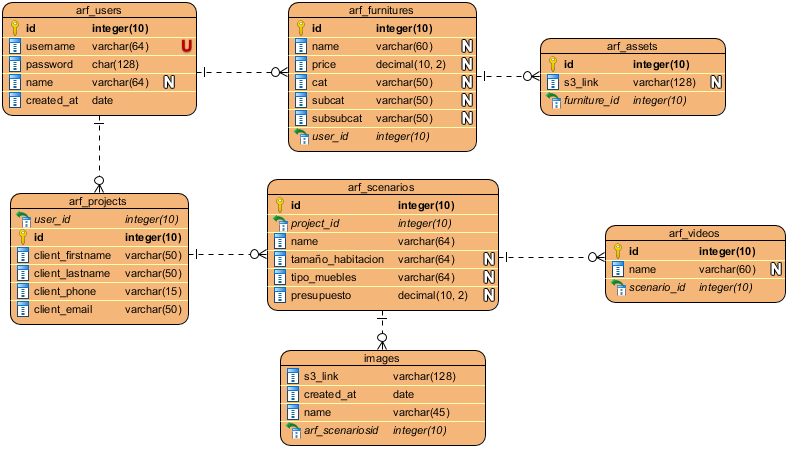
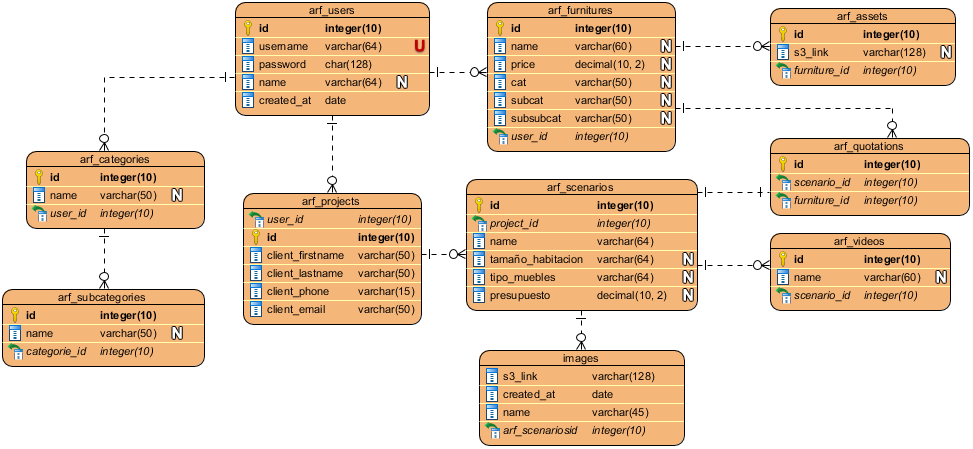
Correcciones en ER

diff --git a/TT2018-A002/desarrollo/secciones/inicializacion.tex b/TT2018-A002/desarrollo/secciones/inicializacion.tex
@@ -58,10 +58,22 @@ Además de la aplicación móvil, existe una plataforma web que se encuentra com
 	\label{fig:arqbackend}
 \end{figure}
 \par
-Por otro lado se requerirá una base de datos que pueda almacenar los usuarios registrados y los escenarios que estos vayan creando. Para el tipo y cantidad de información que se requiere almacenar, una base de datos relacional cumple a ésta necesidad. En la figura  3.16 describe el diseño de la base de datos que se va a usar en ARF, misma que se encuentra en el clúster Amazon RDS mostrado en la figura 4.26.
+Por otro lado se requerirá una base de datos que pueda almacenar los usuarios, proyectos, escenarios, categorías y subcategorías que se vayan generando. Para el tipo y cantidad de información que se requiere almacenar, una base de datos relacional en tercera forma normal cumple a ésta necesidad. En las figuras  3.16, 3.17 y 3.18 se muestra el proceso de normalización la base de datos que se va a usar en ARF, misma que se encuentra en Amazon RDS mostrado en la figura 4.26.
 \begin{figure}[H]
 	\centering
-	\includegraphics[width=16cm,height=9.5cm]{imagenes/desarrollo/arquitectura/ERD.png}
-	\caption{Modelo Entidad-Relación usado para la base de datos de ARF.}
-	\label{fig:erd}
+	\includegraphics[width=16cm,height=8cm]{imagenes/desarrollo/arquitectura/ERD.png}
+	\caption{Primera forma normal de la base de datos de ARF.}
+	\label{fig:erd1}
+\end{figure}
+\begin{figure}[H]
+\centering
+\includegraphics[width=16cm,height=8cm]{imagenes/desarrollo/arquitectura/ERD.png}
+\caption{Segunda forma normal de la base de datos de ARF.}
+\label{fig:erd2}
+\end{figure}
+\begin{figure}[H]
+\centering
+\includegraphics[width=16cm,height=8cm]{imagenes/desarrollo/arquitectura/ERD.png}
+\caption{Tercera forma normal de la base de datos de ARF.}
+\label{fig:erd}
 \end{figure}

diff --git a/TT2018-A002/desarrollo/secciones/exploracion.tex b/TT2018-A002/desarrollo/secciones/exploracion.tex
@@ -37,6 +37,7 @@ Tras las pruebas de contexto realizadas con ARCore y Vuforia, se tomó la decisi
 	\item Vuforia en ambientes con luz muy baja es incapaz de funcionar.
 	\item Con Vuforia se requieren imprimir tantos marcadores físicos como objetos se deseen visualizar. Es decir, si se quieren mostrar 30 muebles en escena, es necesario imprimir y posicionar los 30 marcadores en el entorno físico.
 \end{itemize}
+\newpage
 
 \subsubsection{Establecimiento de interesados}
 \textbf{Desarrolladores} \par

diff --git a/TT2018-A002/analisis/secciones/diagramasSecuencia.tex b/TT2018-A002/analisis/secciones/diagramasSecuencia.tex
@@ -53,7 +53,7 @@ Aquí se presentan cinco escenarios: creación de proyecto, actualización de pr
 
 \begin{figure}[h!]
 	\centering
-	\includegraphics[width=14cm,height=8cm]{imagenes/analisis/ds/CreateProject.jpg}
+	\includegraphics[width=14cm,height=6cm]{imagenes/analisis/ds/CreateProject.jpg}
 	\caption{DS4. Gestión de proyectos.}
 	\label{fig:dsreccuenta}
 \end{figure}

diff --git a/TT2018-A002/Anexos/Mockup.tex b/TT2018-A002/Anexos/Mockup.tex
@@ -105,3 +105,6 @@
 		\label{fig:presupuesto} 
 	\end{minipage}\hfill
 \end{figure}
+
+
+\section{Solicitudes y respuestas}
